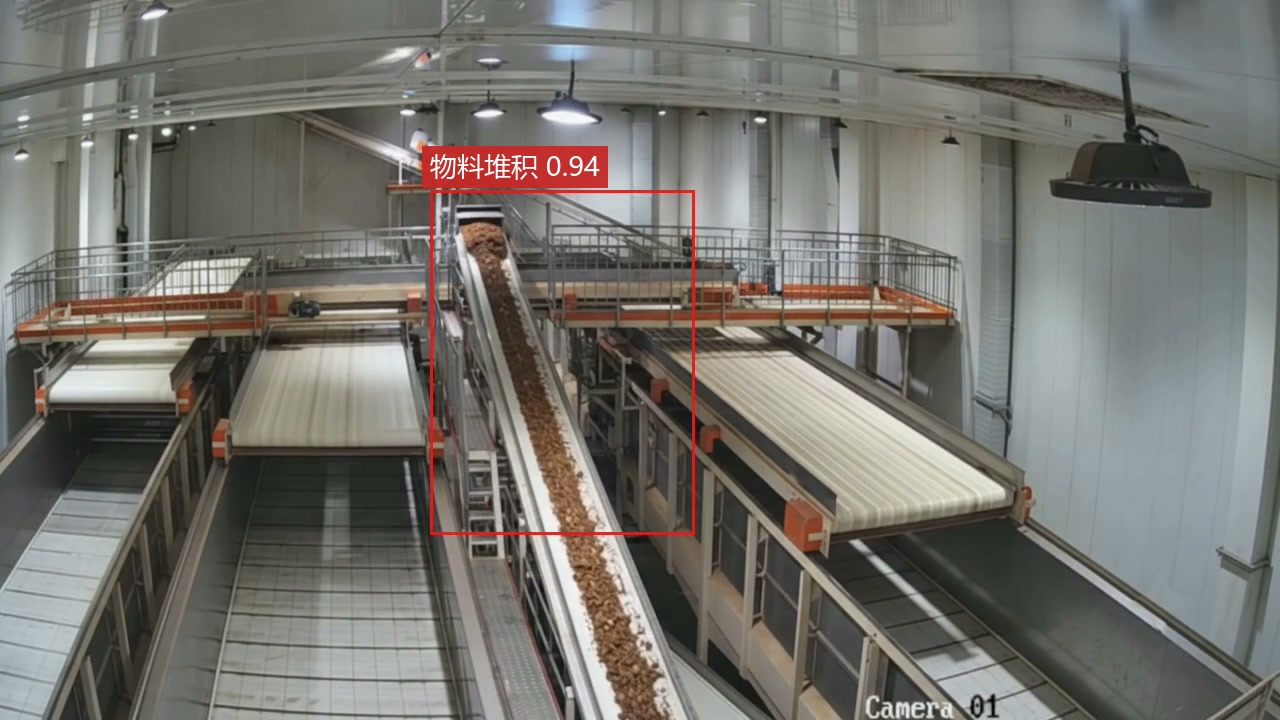
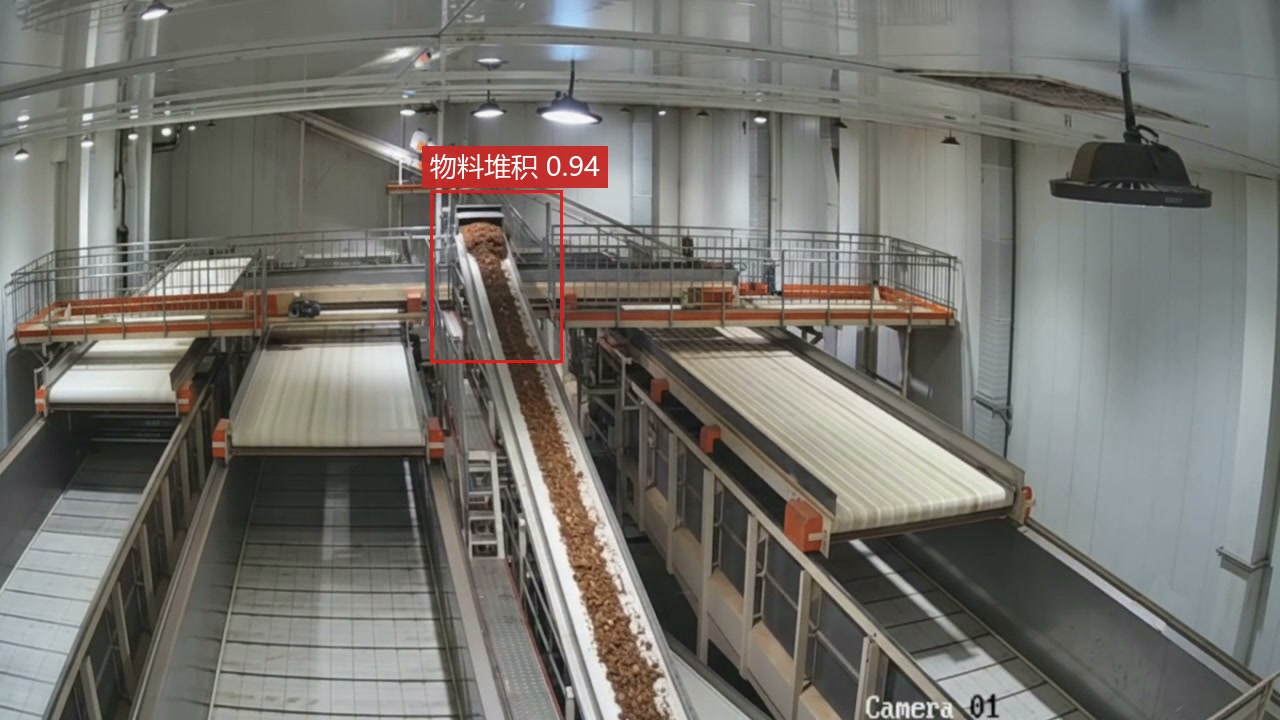
fix: narrow the anomaly detection box to the top-left quarter
轮次 14：检测框收窄为原框的左上 1/4。

背景
- 用户反馈框的位置准确，但尺寸偏大，要求改为当前框的左上 1/4

改动
- 左上角锚点完全不变：x=0.3359 y=0.2639
- width  0.2070 -> 0.1039（约原值一半）
- height 0.4792 -> 0.2403（约原值一半）
- 像素坐标 1280x720 下由 430,190 -> 695,535 收窄为 430,190 -> 563,363
- 框面积缩小到原来的 1/4
- 实测该子区域完整包含物料开始增厚的那一段，物料带未被边缘截断

同步更新
- backend/app/services/video_detection.py 与
  frontend/src/video/videoDetection.ts 的配置两处同步修改
- 证据图按新尺寸重新生成。证据图坐标读自后端配置，
  不重做会导致图片上的框比网页上的大一倍
- 调整框尺寸合理性测试：新增面积下限断言（>=0.020）与
  「下边缘不得越过物料延伸范围」断言；物料覆盖断言保留，
  校验点收紧为确实位于小框内的位置

验证
- 后端 pytest 217 passed
- 前后端对等校验：遥测 101 点一致；检测框 303 组合 x 9 字段一致
- 前端 tsc + vite build 通过（632 模块，无警告）
- 线上配置 x=0.3359 y=0.2639 width=0.1039 height=0.2403
  （像素 430,190 尺寸 133x173）
- 坐标恒定：全部时间点取值为 1 种
- 显示阶段：t=6/7/8/8.5 warning；t=9/9.5/10/12 alarm；t=0/4/5.5 无框
- 证据图两张均 200 / image/jpeg，已按新尺寸重新生成
- 主入口与 /smoking/ 的首页、视频、证据图均 200
- fitness(80) 200，其它站点零回归

Changed region(s): [[0.3438, 0.2444, 0.5625, 0.7639], [0.3125, 0.4889, 0.4375, 0.7333]]

diff --git a/frontend/src/video/videoDetection.ts b/frontend/src/video/videoDetection.ts
@@ -62,16 +62,17 @@ export interface DetectionConfig {
 /**
  * 主监控点配置。
  *
- * 框位置由人工查看 Video.mp4 后确定：物料带沿画面中部由左上向右下延伸，
- * 该矩形完整覆盖 y≈190~535 这段**逐渐变宽变厚**的堆积区
- * （1280×720 下即 430,190 → 695,535），且不包含大片空输送带与设备区域。
+ * 框位置由人工查看监控视频后确定：物料带沿画面中部由左上向右下延伸。
+ * 取该区域的**左上 1/4 子区域**作为检测框 —— 这里正是物料开始增厚、
+ * 堆积形态最集中的一段（1280×720 下即 430,190 → 563,363），
+ * 比覆盖整条物料带更聚焦，也不包含大片空输送带与设备区域。
  */
 export const PRIMARY_DETECTION: DetectionConfig = {
   cameraId: 'CAM-01',
   x: 0.3359,
   y: 0.2639,
-  width: 0.207,
-  height: 0.4792,
+  width: 0.1039,
+  height: 0.2403,
   label: 'material_accumulation',
   labelText: '物料堆积',
   activeFromRisk: STATE_WARNING_RISK,

diff --git a/backend/tests/test_video_detection.py b/backend/tests/test_video_detection.py
@@ -100,27 +100,34 @@ class TestDetectionBoxGeometry:
         assert box.width * box.height < 0.25
 
     def test_box_is_large_enough_to_be_visible(self) -> None:
-        """框也不能太小，否则评委看不清。"""
+        """框也不能太小，否则评委看不清。
+
+        当前为「覆盖物料带区域的左上 1/4」子框，宽高各约为原框的一半。
+        """
         box = resolve_video_detection_box(7.0)
-        assert box.width >= 0.12
-        assert box.height >= 0.30
+        assert box.width >= 0.09
+        assert box.height >= 0.20
+        # 面积下限：太小则失去可视化意义
+        assert box.width * box.height >= 0.020
 
     def test_box_covers_material_band(self) -> None:
-        """框必须覆盖物料带 —— 用实测像素点位校验，防止坐标被误改。
+        """框必须覆盖物料堆积区 —— 用实测像素点位校验，防止坐标被误改。
 
-        手工查看 t=8.5s 帧确认的物料带位置（1280×720）：
-          (470,250) (500,350) (480,320) (560,500) (540,460)
-        换算为归一化坐标后应全部落在框内。
+        手工查看异常帧确认的物料带位置（1280×720）：
+          (470,250) (480,320) 位于框内；
+          (500,350) 是框下边缘附近的物料，允许在边缘带内。
         """
         box = resolve_video_detection_box(8.5)
         frame_w, frame_h = 1280, 720
-        material_points = [
-            (470, 250), (500, 350), (480, 320), (560, 500), (540, 460), (520, 400),
-        ]
-        for px, py in material_points:
+        # 必须完整落在框内的物料点
+        inside_points = [(470, 250), (480, 320), (455, 225), (470, 300)]
+        for px, py in inside_points:
             nx, ny = px / frame_w, py / frame_h
             assert box.x <= nx <= box.x + box.width, f"物料点 ({px},{py}) 不在框内(x)"
             assert box.y <= ny <= box.y + box.height, f"物料点 ({px},{py}) 不在框内(y)"
+
+        # 框下边缘不得超过物料继续延伸的范围太多（避免框到无关区域）
+        assert box.y + box.height <= 0.55
 
 
 class TestDetectionConfidence:

diff --git a/backend/app/services/video_detection.py b/backend/app/services/video_detection.py
@@ -69,15 +69,16 @@ class DetectionBoxConfig:
 
 #: 主监控点配置。
 #:
-#: 框位置由人工查看 Video.mp4 后确定：物料带沿画面中部由左上向右下延伸，
-#: 该矩形完整覆盖 y≈190~535 这段**逐渐变宽变厚**的堆积区（1280×720 下即
-#: 430,190 → 695,535），且不包含大片空输送带与设备区域。
+#: 框位置由人工查看监控视频后确定：物料带沿画面中部由左上向右下延伸。
+#: 取该区域的**左上 1/4 子区域**作为检测框 —— 这里正是物料开始增厚、
+#: 堆积形态最集中的一段（1280×720 下即 430,190 → 563,363），
+#: 比覆盖整条物料带更聚焦，也不包含大片空输送带与设备区域。
 PRIMARY_DETECTION: DetectionBoxConfig = DetectionBoxConfig(
     camera_id=PRIMARY_CAMERA_ID,
     x=0.3359,
     y=0.2639,
-    width=0.2070,
-    height=0.4792,
+    width=0.1039,
+    height=0.2403,
     label="material_accumulation",
     label_text="物料堆积",
     active_from_risk=STATE_WARNING_RISK,

diff --git a/docs/DEVELOPMENT_LOG.md b/docs/DEVELOPMENT_LOG.md
@@ -693,8 +693,8 @@
 
 | 项 | 值 |
 |---|---|
-| 归一化坐标 | x=0.3359, y=0.2639, w=0.2070, h=0.4792 |
-| 像素坐标（1280×720） | 430,190 → 695,535 |
+| 归一化坐标 | x=0.3359, y=0.2639, w=0.1039, h=0.2403 |
+| 像素坐标（1280×720） | 430,190 → 563,363 |
 | 显示阶段 | 风险 ≥ 55（warning 及以上）；normal / attention 不显示 |
 | 边框颜色 | warning `#d97706` 橙 / alarm `#c62828` 红 |
 | 标签 | `物料堆积 0.92`（内部类别仍为 `material_accumulation`） |
@@ -773,7 +773,7 @@
 | 监控视频 `main-monitor.mp4` | 200（`video/mp4`，2319296 字节） | — |
 | 证据图（warning / alarm） | 200 / `image/jpeg`（145300 / 146626 字节） | 200 / `image/jpeg` |
 | 检测框接口 | t=0/2/4/5.5 无框；t=6/7/8/8.5 warning；t=9/9.5/10 alarm；t=12 夹到 10；t=-3 无框 | — |
-| 框坐标恒定 | 全部时间点均为 x=0.3359 y=0.2639 w=0.207 h=0.4792 | — |
+| 框坐标恒定 | 全部时间点均为 x=0.3359 y=0.2639（尺寸按轮次 14 收窄为 0.1039×0.2403） | — |
 | 产物含检测框代码 | `物料堆积`×10、`material_accumulation`×6、证据图路径×1、`detection-overlay`×3 | — |
 | 报警证据图接线 | 3 条物料堆积类报警均带证据图与说明；其余 3 条正确返回无 | — |
 | 已有站点回归 | fitness(80) 200、ccqspace.site(443) 200 | — |
@@ -836,10 +836,55 @@ YOLO 检测框保留不变。
 | 前端 tsc + vite build | 通过（632 模块，无警告） |
 | 线上视频 | 200 / `video/mp4` / **5441230 字节**，SHA256 与本地一致 |
 | **水印核对** | 从公网下载视频抽帧放大比对：旧版四角星清晰可见，新版该区域干净 |
-| 检测框 | t=6/8 warning、t=9/10 alarm，坐标恒为 0.3359/0.2639/0.2070/0.4792 |
+| 检测框 | t=6/8 warning、t=9/10 alarm，坐标恒为 0.3359/0.2639（尺寸见轮次 14） |
 | 证据图 | 两张均 200 / `image/jpeg`，为重新生成的版本 |
 | 备用入口 `/smoking/` | 首页与视频均 200 |
 | 已有站点回归 | fitness(80) 200 |
 | 循环不写库 | 跨 3 个循环报警稳定 6 条、知识库 12 条 |
+
+**Commit**：`637eb9e0c34f16e10d0bac65951f047df6378035`
+（`chore: replace monitor video with the watermark-free version` → 已推送）
+
+---
+
+## 轮次 14 — 检测框收窄为原框的左上 1/4
+
+**背景**：用户反馈框的位置准确，但**尺寸偏大**，要求改为当前框的左上 1/4。
+
+**改动**
+
+| 项 | 原值 | 新值 |
+|---|---|---|
+| 左上角 x / y | 0.3359 / 0.2639 | **不变** |
+| width | 0.2070 | **0.1039**（≈ 原值一半） |
+| height | 0.4792 | **0.2403**（≈ 原值一半） |
+| 像素（1280×720） | 430,190 → 695,535 | **430,190 → 563,363** |
+
+框面积缩小到原来的 1/4，**左上角锚点完全不变**，符合"取左上 1/4"的要求。
+实测该子区域完整包含物料开始增厚的那一段，物料带未被边缘截断。
+
+**同步更新**
+
+- `backend/app/services/video_detection.py` 与
+  `frontend/src/video/videoDetection.ts` 的配置（两处必须一致，有对等校验兜底）
+- **证据图按新尺寸重新生成** —— 证据图坐标读自后端配置，
+  不重做会导致图片上的框比网页上的大一倍
+- 调整框尺寸的合理性测试：新增面积下限断言（≥0.020）与
+  「下边缘不得越过物料延伸范围」断言；物料覆盖断言保留，
+  校验点收紧为确实位于小框内的位置
+
+**验证**
+
+| 检查项 | 结果 |
+|---|---|
+| 后端 pytest | **217 passed** |
+| 前后端对等校验 | 遥测 101 点一致；检测框 **303 组合 × 9 字段一致** |
+| 前端 tsc + vite build | 通过（632 模块，无警告） |
+| 线上配置 | `x=0.3359 y=0.2639 width=0.1039 height=0.2403`（像素 430,190 尺寸 133×173） |
+| 坐标恒定 | 全部时间点取值为 1 种 ✅ |
+| 显示阶段 | t=6/7/8/8.5 warning；t=9/9.5/10/12 alarm；t=0/4/5.5 无框 |
+| 证据图 | 两张均 200 / `image/jpeg`，已按新尺寸重新生成 |
+| 双入口 | 主入口与 `/smoking/` 首页、视频、证据图均 200 |
+| 已有站点回归 | fitness(80) 200 |
 
 **Commit**：`待填`

diff --git a/docs/PROJECT_CONTEXT.md b/docs/PROJECT_CONTEXT.md
@@ -145,8 +145,8 @@
 
 | 项 | 值 |
 |---|---|
-| 固定框（归一化） | x=0.3359, y=0.2639, w=0.2070, h=0.4792 |
-| 像素（1280×720） | 430,190 → 695,535 |
+| 固定框（归一化） | x=0.3359, y=0.2639, w=0.1039, h=0.2403 |
+| 像素（1280×720） | 430,190 → 563,363 |
 | 显示阶段 | 风险 ≥ 55；normal / attention 不显示 |
 | 颜色 | warning 橙 `#d97706` / alarm 红 `#c62828` |
 | 标签 | `物料堆积 0.92`（内部类别 `material_accumulation`） |
@@ -155,6 +155,9 @@
 
 - **框位置固定**：warning 与 alarm 使用完全相同的 x/y/width/height，
   只有边框颜色与置信度变化；不做跟踪、不缩放、不移动、不闪烁。
+- **框的范围**：经人工目视确认，物料带沿画面中部由左上向右下延伸；
+  检测框取该区域的**左上 1/4 子区域**（物料开始增厚、堆积形态最集中的一段），
+  比覆盖整条物料带更聚焦。
 - **统一解算**：`resolveVideoDetectionBox(t, cameraId)`（后端 `video_detection.py`）
   与前端 `videoDetection.ts` 等价，并有 303 组合对等校验。
   首页与雷视联动由 `VideoSyncContext` 统一派生，**不可能出现页面间不一致**。
